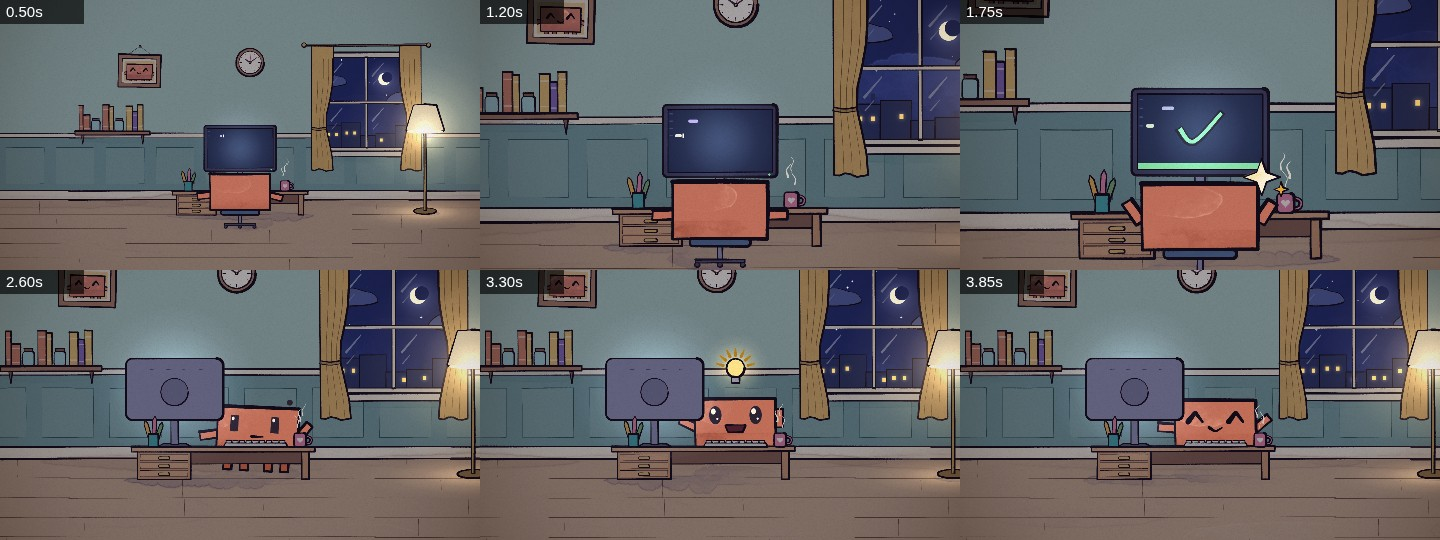
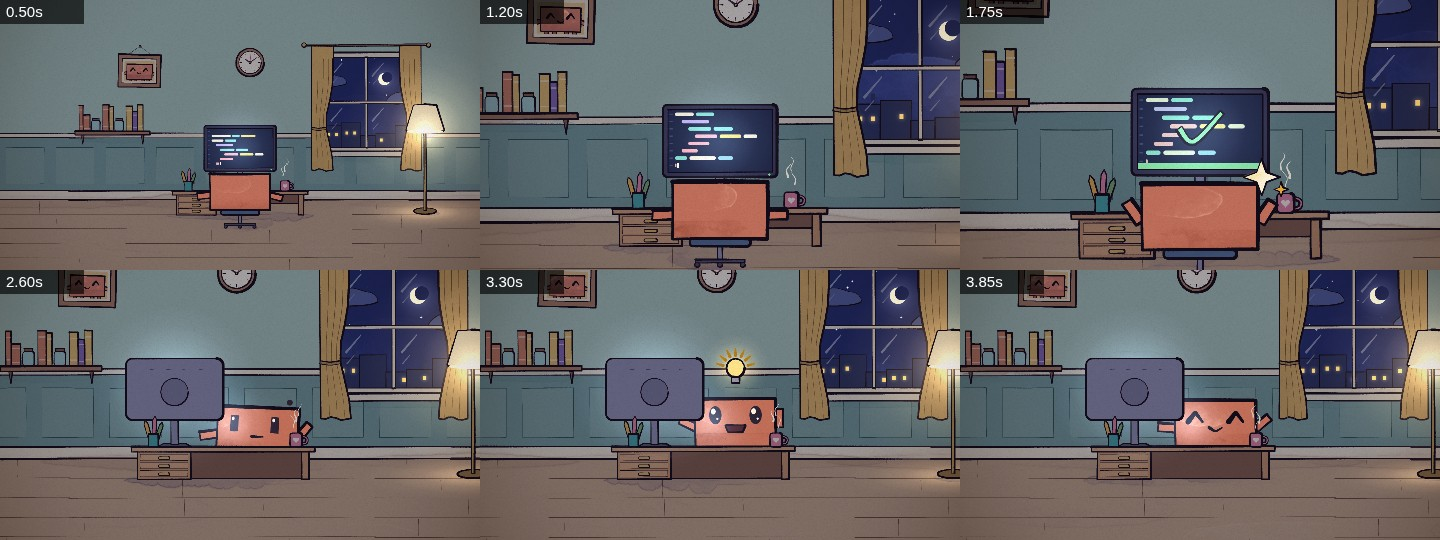
lib/rooms: room kit and desk set (batch 1), README rows
Claude-Session: https://claude.ai/code/session_01BbarqvnyNzPk5eG7PZK1m5

diff --git a/lib/rooms/desk.js b/lib/rooms/desk.js
@@ -7,9 +7,9 @@
 //   The desk is 4u high, so a seated Clawd's arms (and a standing Clawd's) sit just below the desk top.
 //   DESK.set(t, o) paints the whole set for the "at work" staging (Clawd on the stool, back to us, the screen over its
 //   head); paint Clawd after it. o = layout options + light 0..1, typing 0..1, code {...}, glow, mug/cup/stool: false.
-//   Pieces: DESK.desk(t, d, o); DESK.stool(t, x, floorY, u, o) (o.back: true = office chair); DESK.monitor(t, x, y, u, o)
+//   Pieces: DESK.desk(t, d, o) (o.closed: true = panel down to the floor, hiding legs behind it); DESK.stool(t, x, floorY, u, o) (o.back: true = office chair); DESK.monitor(t, x, y, u, o)
 //   (y = the desk top; o.back: true = seen from behind, its light spilling round it: paint Clawd first);
-//   DESK.code(t, x, y, w, h, o) (any screen's contents: o.rate lines/s, o.t0, o.stop, o.seed, o.rows,
+//   DESK.code(t, x, y, w, h, o) (any screen's contents: o.rate lines/s, o.t0, o.stop, o.seed, o.rows, o.start (lines already there),
 //   o.status: { t, ok } flashes a pass/fail bar and mark); DESK.keyboard(t, x, y, u, o) (o.typing 0..1);
 //   DESK.mug(t, x, y, u, o) (o.steam 0..1); DESK.cup(t, x, y, u, o); DESK.clip(pts, fn).
 // Expects: core only (heartPts from clawd.js for the mug). The demo also loads lib/rooms/room.js for its backdrop.
@@ -47,7 +47,7 @@ const DESK = (() => {
     paint(ellPts(x, fy + 3, w * .56, .5 * u, 22), { fill: PAL.ink, fillOp: 80, bleed: .2, tex: .3, ink: null });
     boilSeed('desk body ' + x);
     const pl = x - w / 2 + .4 * u, pw = 6.6 * u, bot = fy - topY - th;
-    paint(rectPts(pl + pw, topY + th - 2, w - pw - 1.6 * u, 1.6 * u, .5), { wash: mixCol(dk, PAL.ink, .2), ink: PAL.ink, sw: .8 });   // back of the kneehole
+    paint(rectPts(pl + pw, topY + th - 2, w - pw - 1.6 * u, o.closed ? bot : 1.6 * u, .5), { wash: mixCol(dk, PAL.ink, .2), ink: PAL.ink, sw: .8 });   // back of the kneehole (closed: to the floor)
     paint(rectPts(x + w / 2 - 1.3 * u, topY + th - 2, .9 * u, bot + 2, .5), { wash: wood, fill: dk, fillOp: 50, tex: .6, ink: PAL.ink, sw: 1 });
     paint(rectPts(pl, topY + th - 2, pw, bot + 2, .6), { wash: wood, fill: dk, fillOp: 50, tex: .6, ink: PAL.ink, sw: 1 });
     const dh = (bot - .4 * u) / 3;
@@ -81,14 +81,14 @@ const DESK = (() => {
   // the text scrolls up smoothly, a cursor leads (solid while typing, blinking on the beat once stopped).
   D.code = (t, x, y, w, h, o = {}) => {
     const rows = o.rows ?? 8, lh = h / (rows + .6), pad = .07 * w, rate = o.rate ?? 2.4, seed = o.seed ?? 1, t0 = o.t0 ?? 0;
-    const tt = Math.max(0, Math.min(t, o.stop ?? Infinity) - t0) * rate, n = Math.floor(tt), p = tt - n, typing = t < (o.stop ?? Infinity);
+    const tt = (o.start ?? rows) + Math.max(0, Math.min(t, o.stop ?? Infinity) - t0) * rate, n = Math.floor(tt), p = tt - n, typing = t < (o.stop ?? Infinity);
     const first = Math.max(0, n - (rows - 1)), scr = first > 0 ? lh * (1 - easeOut(clamp(p * 5))) : 0;
     const st = o.status, sa = st ? t - st.t : -1, good = st ? (st.ok ? C.ok : C.bad) : null, flashK = sa > 0 ? 1 - seg(sa, 0, .7) : 0;
-    const tw = w - 1.35 * pad, gap = .025 * tw, bh = lh * .42;
+    const tw = w - 1.35 * pad, gap = .025 * tw, bh = lh * .48;
     const line = i => {
       if (hash(i * 7.13 + seed) < .12) return null;
       const ind = Math.floor((Math.sin(i * .83 + seed * 2) + 1) * 1.7), k = 1 + Math.floor(hash(i * 5.71 + seed) * 3.6), segs = [];
-      for (let j = 0; j < k; j++) segs.push([(.06 + .2 * hash(i * 11.3 + j * 2.7 + seed)) * tw, Math.floor(hash(i * 3.9 + j * 1.3 + seed) * C.code.length)]);
+      for (let j = 0; j < k; j++) segs.push([(.09 + .25 * hash(i * 11.3 + j * 2.7 + seed)) * tw, Math.floor(hash(i * 3.9 + j * 1.3 + seed) * C.code.length)]);
       return [ind * .07 * tw, segs];
     };
     let cur = null;

diff --git a/lib/rooms/desk.demo.js b/lib/rooms/desk.demo.js
@@ -16,11 +16,12 @@ LOOPS['rooms/desk'] = t => {
   } else {
     camBegin(1010, 640, 1.35);
     const at = room(t);
-    clawd(d.behind[0], d.behind[1], u, { ...emotions(t, [[2.2, 'thinking', { lookX: -.8, lookY: .2 }], [3.05, 'idea'], [3.55, 'happy']]), tint: '#39406E', tintK: .25 });
-    DESK.desk(t, d, { light: at.light });
+    const [cx, cy] = d.behind;
+    clawd(cx, cy, u, { ...emotions(t, [[2.2, 'thinking', { lookX: -.8, lookY: .2 }], [3.05, 'idea'], [3.55, 'happy']]), tint: '#39406E', tintK: .25 });
+    glow(cx - 3 * u, cy - 6 * u, 6 * u, DESK.C.light, .55);   // the screen lights the side of Clawd's face
+    DESK.desk(t, d, { light: at.light, closed: true });
     DESK.monitor(t, d.x - 6 * u, d.topY, u, { light: at.light, back: true });
-    DESK.keyboard(t, d.x + 4 * u, d.topY, u, { light: at.light, typing: t > 3.6 ? 1 : 0 });
-    DESK.mug(t, d.mug[0] + 2 * u, d.topY, u, { light: at.light });
+    DESK.mug(t, d.mug[0] + 1.5 * u, d.topY, u, { light: at.light });
     DESK.cup(t, d.cup[0], d.topY, u, { light: at.light });
     camEnd();
   }

diff --git a/lib/README.md b/lib/README.md
@@ -44,6 +44,11 @@ licence in the header. No licence → no code: list the source under "Elsewhere"
 
 ### rooms/ — interiors and town
 
+| asset | what it's for | use | source |
+|---|---|---|---|
+| [`room.js`](rooms/room.js) | a room to act in: wall with wainscot, plank floor, a window onto a time-of-day sky (or any sky asset, clipped to the glass) with curtains that breathe, a door that swings open onto a hall (lit or dark), a picture frame (Clawd's portrait) that swings when knocked, a clock whose second hand ticks on the beat, a shelf of books, a floor lamp that flicks on and glows, a potted plant, a rug; one `light` value darkens it all toward night | `ROOM.room(t, { tod, light, window, door, lamp, ... })` returns anchors (`standY`, `window`, `door`...); or the pieces `ROOM.wall/floor/window/door/frame/clock/shelf/rug/lamp/plant`; helpers `ROOM.swing` (door), `ROOM.flick` (lamp), `ROOM.lightOf(tod)`, `ROOM.clip(pts, fn)` | made for the library, 2026-09-25 |
+| [`desk.js`](rooms/desk.js) | Clawd at the computer: a desk sized from Clawd's `u`, a monitor that types and scrolls painted code (no letters) and flashes a pass/fail verdict, or its back for reverse shots (its light spills onto Clawd), keys that dip while typing, a steaming mug, a pencil cup, a stool or office chair; exported seat/stand/keyboard/screen anchors for sitting and typing poses | `DESK.layout({ x, floorY, u })` → anchors; `DESK.set(t, { ..., typing, code: { stop, status: { t, ok } } })` then Clawd; pieces `DESK.desk/monitor/code/keyboard/mug/cup/stool` | made for the library, 2026-09-25 (demo loads `room.js` too) |
+
 ### weather/ — weather and particles
 
 ### cast/ — secondary characters
